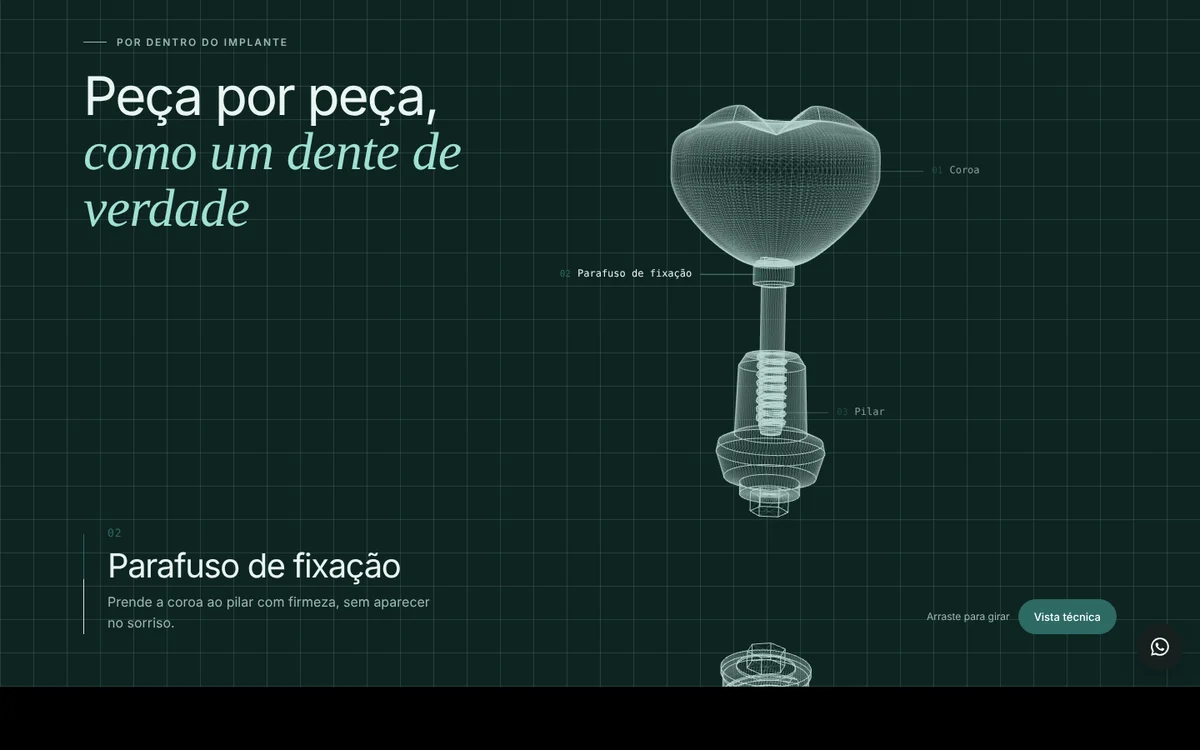
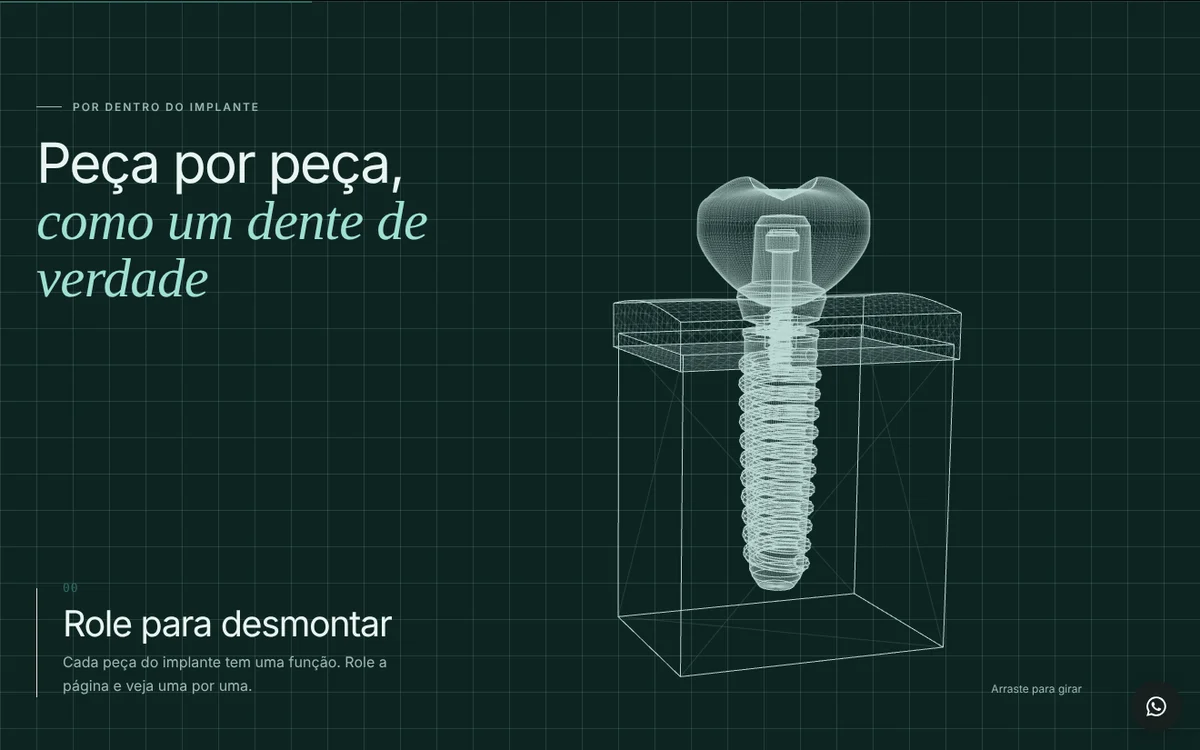
Alba: implante só em vista técnica, enquadramento e espaçamento ajustados
Claude-Session: https://claude.ai/code/session_01CQ7NdCMvkY4bDfjS1usTTK

diff --git a/assets/js/implante3d.js b/assets/js/implante3d.js
@@ -10,7 +10,6 @@ const numEl = sec.querySelector('#impNum');
 const titleEl = sec.querySelector('#impTitle');
 const textEl = sec.querySelector('#impText');
 const railEl = sec.querySelector('#impRail');
-const btnPlan = sec.querySelector('#impPlan');
 
 const PARTS = [
   { k: 'crown', n: '01', t: 'Coroa', d: 'Cerâmica feita sob medida, na cor e no formato dos seus dentes.' },
@@ -166,7 +165,7 @@ const parts = {
 };
 // posições montadas e desmontadas (y)
 const BASE = { bone: 0, gum: 0, impl: 0, abut: 0.02, screw: 0.35, crown: 1.15 };
-const OPEN = { bone: -1.9, gum: -1.1, impl: 0.4, abut: 2.3, screw: 3.75, crown: 5.4 };
+const OPEN = { bone: -1.6, gum: -0.95, impl: 0.3, abut: 2.05, screw: 3.4, crown: 4.85 };
 const SPIN = { bone: 0, gum: 0, impl: 1.6, abut: -0.8, screw: 3.2, crown: 0.6 };
 Object.entries(parts).forEach(([k, o]) => { o.position.y = BASE[k]; root.add(o); });
 
@@ -174,24 +173,18 @@ Object.entries(parts).forEach(([k, o]) => { o.position.y = BASE[k]; root.add(o);
 const ANCH = { crown: [0.95, 0.1, 0], screw: [0.2, 0.7, 0], abut: [0.5, 0.9, 0], impl: [0.45, -1.3, 0], bone: [1.7, -0.8, 0] };
 
 /* ---------- vista técnica (arestas) ---------- */
-const lineMat = new THREE.LineBasicMaterial({ color: 0x9fe0d4, transparent: true, opacity: 0.85 });
+const lineMats = {};
 const edges = [];
-root.traverse(o => {
-  if (o.isMesh && !o.isInstancedMesh) {
-    const e = new THREE.LineSegments(new THREE.EdgesGeometry(o.geometry, 12), lineMat);
-    e.visible = false; o.add(e); edges.push({ mesh: o, e });
-  }
+Object.entries(parts).forEach(([k, part]) => {
+  const lm = lineMats[k] = new THREE.LineBasicMaterial({ color: 0x9fe0d4, transparent: true, opacity: 0.85 });
+  part.traverse(o => {
+    if (o.isMesh && !o.isInstancedMesh) { const e = new THREE.LineSegments(new THREE.EdgesGeometry(o.geometry, 12), lm); o.add(e); edges.push(e); }
+  });
 });
-let plan = false;
-const wire = new THREE.MeshBasicMaterial({ color: 0x9fe0d4, wireframe: true, transparent: true, opacity: 0.08, depthWrite: false });
-root.traverse(o => { if (o.isMesh) o.userData.mat = o.material; });
-function setPlan(v) {
-  plan = v; sec.classList.toggle('plan', v); btnPlan.setAttribute('aria-pressed', v);
-  root.traverse(o => { if (o.isMesh && !o.isInstancedMesh) o.material = v ? wire : o.userData.mat; if (o.isInstancedMesh) o.visible = !v; });
-  edges.forEach(({ e }) => { e.visible = v; });
-}
-btnPlan.addEventListener('click', () => setPlan(!plan));
-// materiais compartilhados: material.visible afeta todos; arestas são filhas, então continuam visíveis
+// só a vista técnica: malha em arame bem leve + arestas
+const wire = new THREE.MeshBasicMaterial({ color: 0x9fe0d4, wireframe: true, transparent: true, opacity: 0.07, depthWrite: false });
+root.traverse(o => { if (o.isInstancedMesh) o.visible = false; else if (o.isMesh) o.material = wire; });
+sec.classList.add('plan');
 
 /* ---------- legendas HTML ---------- */
 const labelNodes = PARTS.map((p, i) => {
@@ -208,7 +201,7 @@ canvas.addEventListener('pointermove', e => { if (!down) return; const dx = e.cl
 ['pointerup', 'pointercancel'].forEach(t => canvas.addEventListener(t, () => { down = false; }));
 
 /* ---------- loop ---------- */
-let W = 0, H = 0, needs = true, visible = false, cur = 0, curE = 0, camY = -0.6, camD = 14.5, last = -1;
+let W = 0, H = 0, needs = true, visible = false, cur = 0, curE = 0, camY = -0.55, camD = 17, last = -1;
 function resize() {
   const r = stage.getBoundingClientRect(); W = r.width; H = r.height;
   renderer.setPixelRatio(Math.min(devicePixelRatio, W < 700 ? 1.5 : 1.75));
@@ -256,15 +249,22 @@ function tick(now) {
   root.rotation.x = 0.06;
 
   // câmera foca na peça ativa
-  const focusY = idx >= 0 ? parts[PARTS[idx].k].position.y + (PARTS[idx].k === 'bone' ? -1.4 : PARTS[idx].k === 'impl' ? -1.2 : 0.4) : -0.6 + curE * 1.9;
-  const zoomIn = idx >= 0 ? (W < 700 ? 0.78 : 0.62) : 1;
+  const focusY = -0.55 + curE * 0.95;   // centro da pilha inteira, montada ou aberta
+  const zoomIn = 1;
   const mobile = W < 700;
-  const baseD = (mobile ? 27 : 14.5) + curE * (mobile ? 15 : 8);
+  const baseD = (mobile ? 32 : 17) + curE * (mobile ? 12 : 10);
   camY += (focusY - camY) * Math.min(1, dt * 3);
   camD += (baseD * zoomIn - camD) * Math.min(1, dt * 3);
-  root.position.x = mobile ? 0 : 1.7;
+  root.position.x = mobile ? 0 : 2.2;
   camera.position.set(0, camY + 1.4, camD);
   camera.lookAt(0, camY, 0);
+
+  // destaque da peça ativa
+  const act = idx >= 0 ? PARTS[idx].k : null;
+  Object.entries(lineMats).forEach(([k, m]) => {
+    const on = !act || k === act || (act === 'bone' && k === 'gum');
+    m.opacity += ((on ? 0.95 : 0.22) - m.opacity) * Math.min(1, dt * 6);
+  });
 
   renderer.render(scene, camera);
 
@@ -273,7 +273,7 @@ function tick(now) {
     const k = PARTS[i].k, o = parts[k];
     tmp.set(...ANCH[k]); o.localToWorld(tmp); tmp.project(camera);
     let x = (tmp.x * 0.5 + 0.5) * W, y = (-tmp.y * 0.5 + 0.5) * H;
-    if (W < 700) { y += H * 0.05; x = i % 2 ? Math.max(170, x) : Math.min(W - 160, x); }
+    if (W < 700) { y += H * 0.05; x = i % 2 ? Math.max(190, x) : Math.min(W - 160, x); }
     const vis = curE > 0.55 && tmp.z < 1;
     el.style.transform = `translate3d(${x}px,${y}px,0)`;
     el.classList.toggle('on', vis);

diff --git a/projetos/alba-odontologia.html b/projetos/alba-odontologia.html
@@ -163,7 +163,7 @@ h2{font-size:clamp(38px,5.4vw,72px);margin-top:22px}
 @keyframes impIn{from{opacity:0;transform:translateY(14px)}to{opacity:1;transform:none}}
 .imp-rail{width:1px;height:120px;background:var(--line);position:relative;flex:none}
 .imp-rail i{position:absolute;inset:0;background:var(--teal);transform-origin:top;transform:scaleY(0)}
-.imp-tools{position:absolute;right:max(20px,calc((100vw - 1240px)/2));bottom:clamp(34px,7vh,72px);z-index:3;display:flex;gap:10px;align-items:center}
+.imp-tools{position:absolute;right:max(110px,calc((100vw - 1240px)/2 + 90px));bottom:clamp(34px,7vh,72px);z-index:3;display:flex;gap:10px;align-items:center}
 .imp-tools button{font:500 13px var(--sans);height:42px;padding:0 18px;border-radius:999px;border:1px solid var(--line);background:rgba(255,255,255,.7);backdrop-filter:blur(8px);color:var(--ink);cursor:pointer;display:flex;align-items:center;gap:8px;transition:background .3s,color .3s,border-color .3s}
 .imp-tools button[aria-pressed="true"]{background:var(--teal);color:#fff;border-color:var(--teal)}
 .imp-tools .hint{font-size:12px;color:var(--muted)}
@@ -188,7 +188,7 @@ h2{font-size:clamp(38px,5.4vw,72px);margin-top:22px}
   .imp-info{bottom:0;padding:70px 0 96px;background:linear-gradient(rgba(238,240,236,0),#EEF0EC 42%)}
   .imp.plan .imp-info{background:linear-gradient(rgba(14,36,34,0),#0E2422 42%)}
   .imp-head{background:linear-gradient(#EEF0EC 60%,rgba(238,240,236,0));top:0;padding:92px 0 30px}.imp.plan .imp-head{background:linear-gradient(#0E2422 60%,rgba(14,36,34,0))}
-  .imp-tools{left:20px;right:auto;bottom:28px}.imp-tools .hint{display:none}
+  .imp-tools{left:20px;right:auto;bottom:34px}
   .imp-lab i{width:34px}.imp-lab.r span{left:42px}.imp-lab.l span{right:42px}.imp-lab span{font-size:12px}
 }
 
@@ -426,13 +426,13 @@ document.readyState==='loading'?addEventListener('DOMContentLoaded',go):go();})(
   </div>
 </section>
 
-<section class="imp" id="implante" aria-label="Como é um implante dentário, peça por peça">
+<section class="imp plan" id="implante" aria-label="Como é um implante dentário, peça por peça">
   <div class="imp-stick">
     <div class="imp-stage"><canvas aria-hidden="true"></canvas></div>
     <div class="imp-labels" aria-hidden="true"></div>
     <div class="imp-head"><div class="wrap"><span class="label">Por dentro do implante</span><h2>Peça por peça, <em>como um dente de verdade</em></h2></div></div>
     <div class="imp-info" aria-live="polite"><div class="wrap"><div class="imp-rail"><i id="impRail"></i></div><div class="imp-card"><div class="num" id="impNum">00</div><h3 id="impTitle">Role para desmontar</h3><p id="impText">Cada peça do implante tem uma função. Role a página e veja uma por uma.</p></div></div></div>
-    <div class="imp-tools"><span class="hint">Arraste para girar</span><button type="button" id="impPlan" aria-pressed="false">Vista técnica</button></div>
+    <div class="imp-tools"><span class="hint">Arraste para girar</span></div>
   </div>
 </section>
 
@@ -676,7 +676,7 @@ if(!reduce){(function m(){const w=mq.scrollWidth/2;mqX-=0.5+vel*.25;vel*=.92;if(
 <script>
 /* carrega o 3D do implante só quando a seção chega perto */
 (function(){const s=document.getElementById('implante');let done=false;
-  const go=()=>{if(done)return;done=true;const t=document.createElement('script');t.type='module';t.src='../assets/js/implante3d.js?v=3';document.body.appendChild(t);};
+  const go=()=>{if(done)return;done=true;const t=document.createElement('script');t.type='module';t.src='../assets/js/implante3d.js?v=5';document.body.appendChild(t);};
   new IntersectionObserver((e,o)=>{if(e[0].isIntersecting){go();o.disconnect();}},{rootMargin:'150% 0px'}).observe(s);})();
 </script>
 </body>

diff --git a/index.html b/index.html
@@ -543,7 +543,7 @@ const PROJECTS = [
     img:'alba-cover', tags:['Landing page','Odontologia','3D interativo','WhatsApp'],
     sum:'Landing page para uma clínica odontológica (implantes, alinhadores, clareamento, lentes e prevenção), pensada para receber tráfego do Google Ads e do Google Maps e transformar visitas em avaliações agendadas.',
     challenge:'Muita gente adia o dentista por medo ou por não saber quanto vai pagar. A página precisa acolher, explicar o processo e facilitar o agendamento, sem promessas que firam as normas do CFO.',
-    solution:['Promessa de atendimento sem medo e plano explicado logo no topo','Cada tratamento abre o WhatsApp já com o nome do procedimento','Faixa de urgência para quem está com dor agora','Agendamento em 3 passos que envia tratamento, período e contato pelo WhatsApp','Implante 3D que se desmonta com o scroll, peça por peça, com vista técnica'],
+    solution:['Promessa de atendimento sem medo e plano explicado logo no topo','Cada tratamento abre o WhatsApp já com o nome do procedimento','Faixa de urgência para quem está com dor agora','Agendamento em 3 passos que envia tratamento, período e contato pelo WhatsApp','Implante 3D que se desmonta com o scroll, peça por peça, em vista técnica'],
     gallery:['alba-g1','alba-g2','alba-g3','alba-g4'], links:[{t:'Ver site',u:'projetos/alba-odontologia.html'}] },
   { id:'martins', title:'Martins Ribeiro Advocacia', short:'Landing page para escritório de advocacia', cat:['landing'], flag:'Conceitual',
     img:'martins-cover', tags:['Landing page','Advocacia','Mobile first','WhatsApp'],
